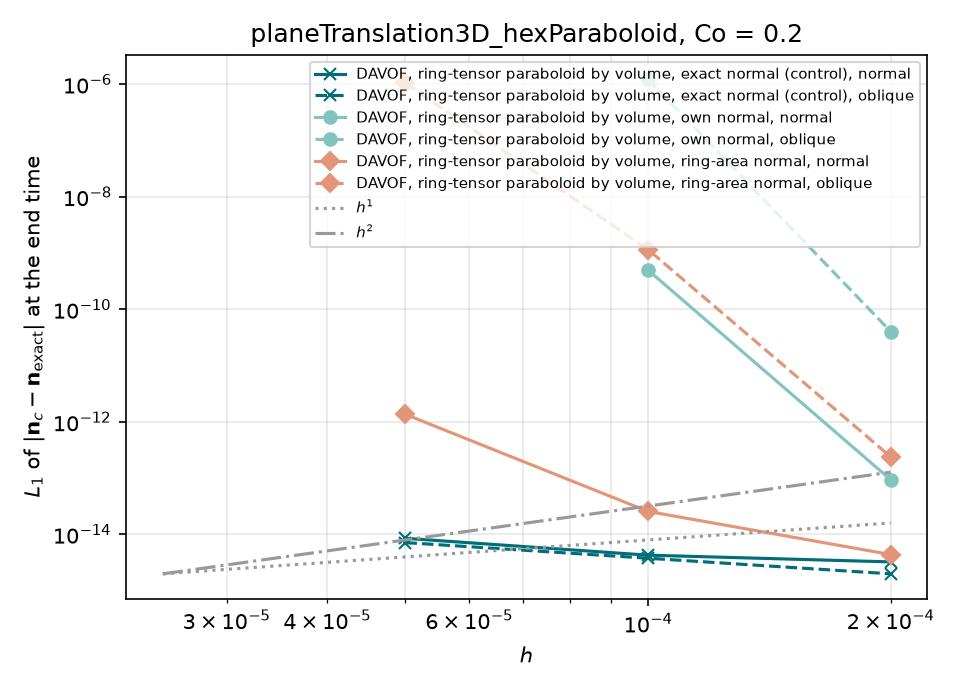
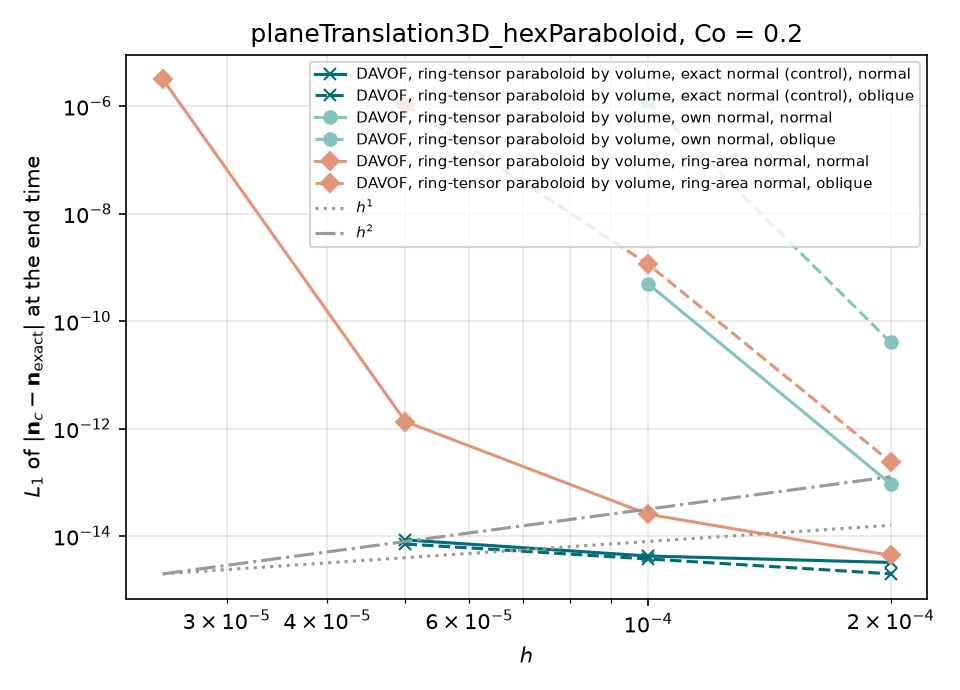
results: planeTranslation3D_hexParaboloid (tables and figures of the leia report)

diff --git a/docs/davof/davof-article/data/tables/davof_advection_planeTranslation3D_hexParaboloid_orders_Co0.2.tex b/docs/davof/davof-article/data/tables/davof_advection_planeTranslation3D_hexParaboloid_orders_Co0.2.tex
@@ -39,14 +39,14 @@ row & arm & metric & $N=20$ & $N=40$ & $N=80$ & $N=160$ & $p$ & pairwise \\
 \texttt{davof-paraboloidRing-cellLocal} & oblique & $\min_t \alpha$ & -3.1e-14 & -3.6e-13 & absent & absent &  &  \\
 \texttt{davof-paraboloidRing-cellLocal} & oblique & status & ok & ok & absent & absent &  &  \\
 \midrule
-\texttt{davof-paraboloidRing-ringArea} & normal & $L_1(\alpha_f)$, end & 5.81e-15 & 2.04e-14 & 1.22e-12 & absent & -3.85 & -1.81 / -5.90 \\
-\texttt{davof-paraboloidRing-ringArea} & normal & $\max_t L_1(\alpha_f)$ & 7.72e-15 & 2.04e-14 & 1.28e-12 & absent & -3.69 & -1.40 / -5.98 \\
-\texttt{davof-paraboloidRing-ringArea} & normal & $L_1(\mathbf{n})$, end & 4.38e-15 & 2.55e-14 & 1.35e-12 & absent & -4.14 & -2.54 / -5.73 \\
-\texttt{davof-paraboloidRing-ringArea} & normal & $L_1(\mathbf{x})$, end & 6.15e-17 & 1.08e-17 & 4.08e-16 & absent & -1.37 & 2.50 / -5.24 \\
-\texttt{davof-paraboloidRing-ringArea} & normal & $E_{\mathrm{shape}}$, end & 3.07e-24 & 2.38e-24 & 3.39e-23 & absent & -1.73 & 0.37 / -3.83 \\
-\texttt{davof-paraboloidRing-ringArea} & normal & $E_{\mathrm{bound}}$, end & 9.90e-15 & 1.38e-14 & 2.46e-14 & absent &  &  \\
-\texttt{davof-paraboloidRing-ringArea} & normal & $\min_t \alpha$ & -9.9e-15 & -9.1e-15 & -1.4e-14 & absent &  &  \\
-\texttt{davof-paraboloidRing-ringArea} & normal & status & ok & ok & ok & absent &  &  \\
+\texttt{davof-paraboloidRing-ringArea} & normal & $L_1(\alpha_f)$, end & 5.81e-15 & 2.04e-14 & 1.22e-12 & 1.80e-06 & -9.05 & -1.81 / -5.90 / -20.50 \\
+\texttt{davof-paraboloidRing-ringArea} & normal & $\max_t L_1(\alpha_f)$ & 7.72e-15 & 2.04e-14 & 1.28e-12 & 3.18e-06 & -9.18 & -1.40 / -5.98 / -21.24 \\
+\texttt{davof-paraboloidRing-ringArea} & normal & $L_1(\mathbf{n})$, end & 4.38e-15 & 2.55e-14 & 1.35e-12 & 3.15e-06 & -9.40 & -2.54 / -5.73 / -21.15 \\
+\texttt{davof-paraboloidRing-ringArea} & normal & $L_1(\mathbf{x})$, end & 6.15e-17 & 1.08e-17 & 4.08e-16 & 8.77e-11 & -6.66 & 2.50 / -5.24 / -17.71 \\
+\texttt{davof-paraboloidRing-ringArea} & normal & $E_{\mathrm{shape}}$, end & 3.07e-24 & 2.38e-24 & 3.39e-23 & 3.74e-17 & -7.44 & 0.37 / -3.83 / -20.07 \\
+\texttt{davof-paraboloidRing-ringArea} & normal & $E_{\mathrm{bound}}$, end & 9.90e-15 & 1.38e-14 & 2.46e-14 & 5.53e-14 &  &  \\
+\texttt{davof-paraboloidRing-ringArea} & normal & $\min_t \alpha$ & -9.9e-15 & -9.1e-15 & -1.4e-14 & -4.5e-13 &  &  \\
+\texttt{davof-paraboloidRing-ringArea} & normal & status & ok & ok & ok & ok &  &  \\
 \midrule
 \texttt{davof-paraboloidRing-ringArea} & oblique & $L_1(\alpha_f)$, end & 1.75e-13 & 6.18e-10 & 6.66e-07 & absent & -10.93 & -11.79 / -10.07 \\
 \texttt{davof-paraboloidRing-ringArea} & oblique & $\max_t L_1(\alpha_f)$ & 2.37e-13 & 6.29e-09 & 7.52e-06 & absent & -12.46 & -14.70 / -10.22 \\

diff --git a/docs/davof/davof-article/data/tables/davof_advection_planeTranslation3D_hexParaboloid_gate.tex b/docs/davof/davof-article/data/tables/davof_advection_planeTranslation3D_hexParaboloid_gate.tex
@@ -40,7 +40,7 @@ row & arm & $N$ & Co & $\max_t L_1(\alpha_f)$ & $\max_t L_\infty(\alpha_f)$ & $\
 \texttt{davof-paraboloidRing-ringArea} & normal & 20 & 0.2 & 7.7e-15 & 6.3e-14 & 4.9e-15 & PASS \\
 \texttt{davof-paraboloidRing-ringArea} & normal & 40 & 0.2 & 2.0e-14 & 2.6e-13 & 2.6e-14 & PASS \\
 \texttt{davof-paraboloidRing-ringArea} & normal & 80 & 0.2 & 1.3e-12 & 6.2e-11 & 1.4e-12 & FAIL \\
-\texttt{davof-paraboloidRing-ringArea} & normal & 160 & 0.2 & -- & -- & -- & FAIL (absent) \\
+\texttt{davof-paraboloidRing-ringArea} & normal & 160 & 0.2 & 3.2e-06 & 1.7e-02 & 4.5e-06 & FAIL \\
 \texttt{davof-paraboloidRing-ringArea} & normal & 20 & 0.5 & 1.2e-14 & 1.0e-12 & 1.7e-14 & PASS \\
 \texttt{davof-paraboloidRing-ringArea} & normal & 40 & 0.5 & 6.5e-13 & 2.8e-11 & 1.1e-12 & FAIL \\
 \texttt{davof-paraboloidRing-ringArea} & normal & 80 & 0.5 & 1.8e-12 & 8.4e-11 & 2.4e-12 & FAIL \\
